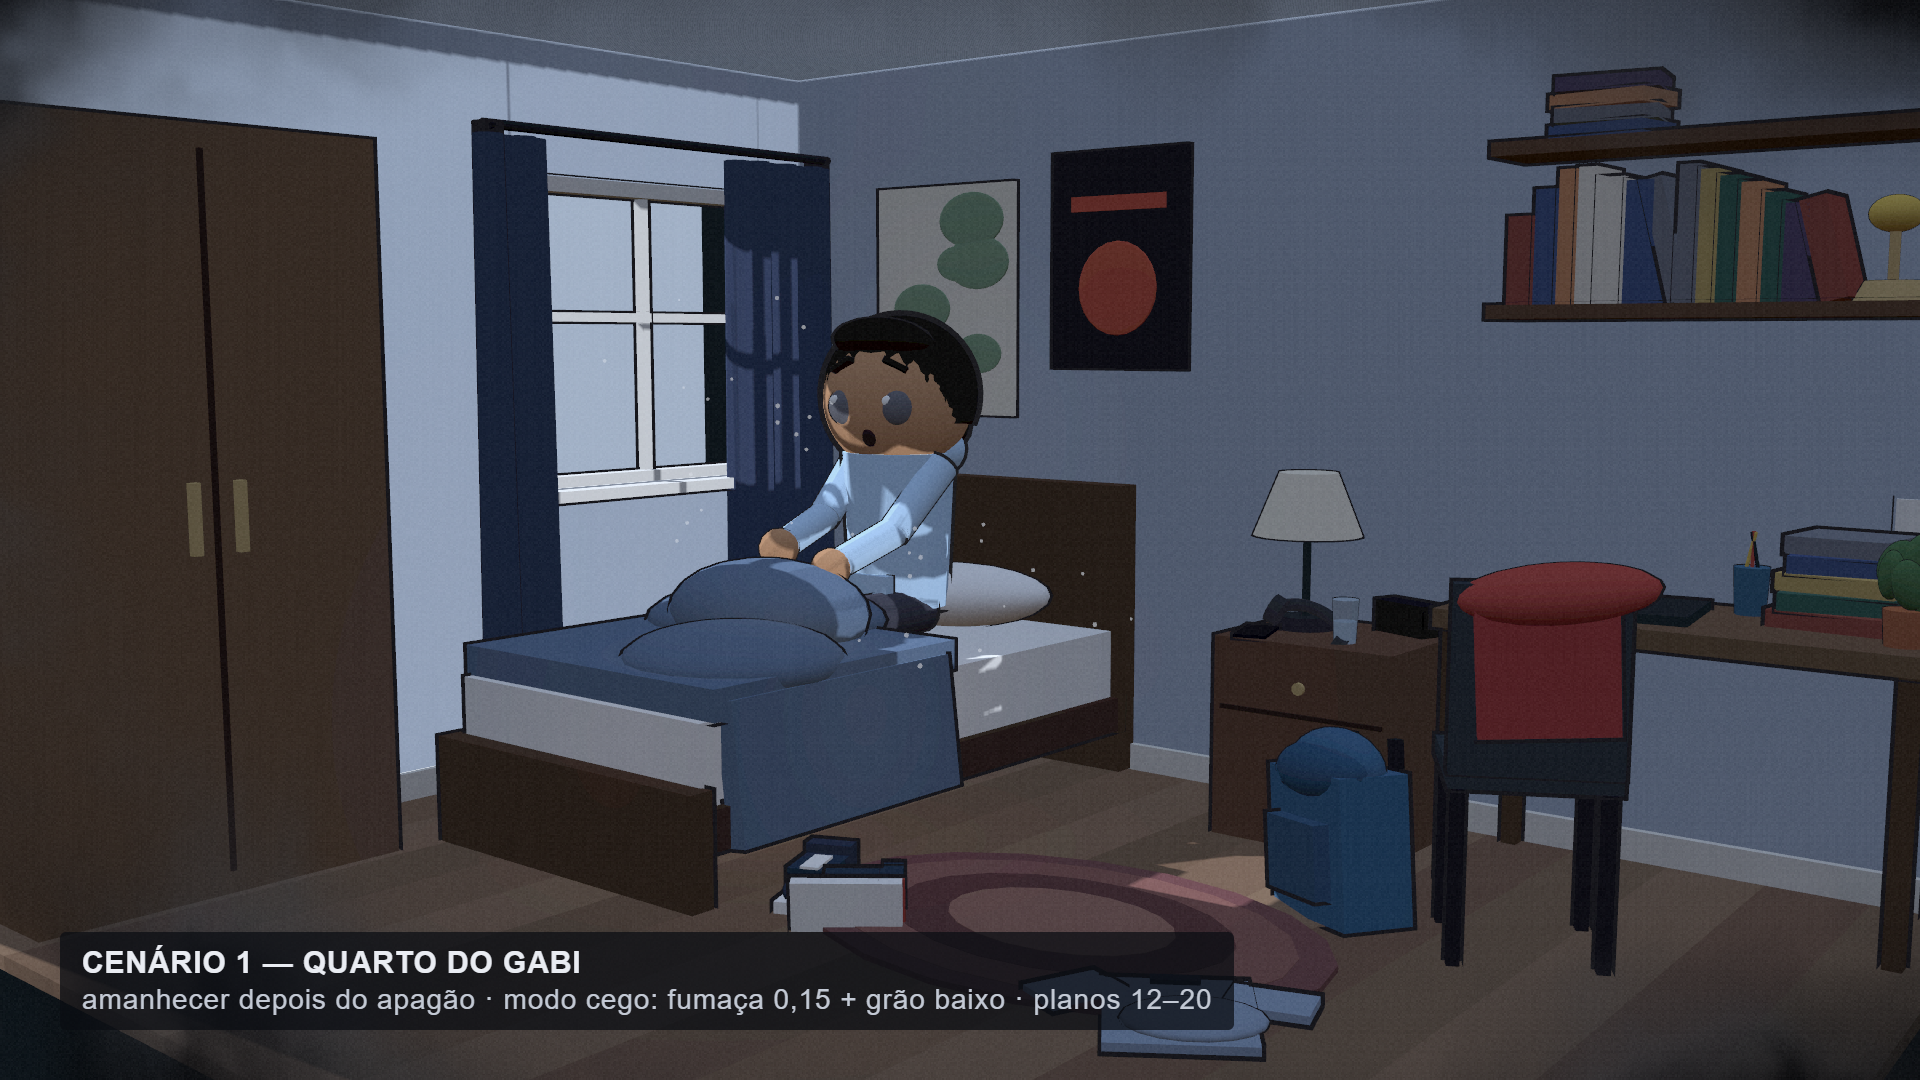
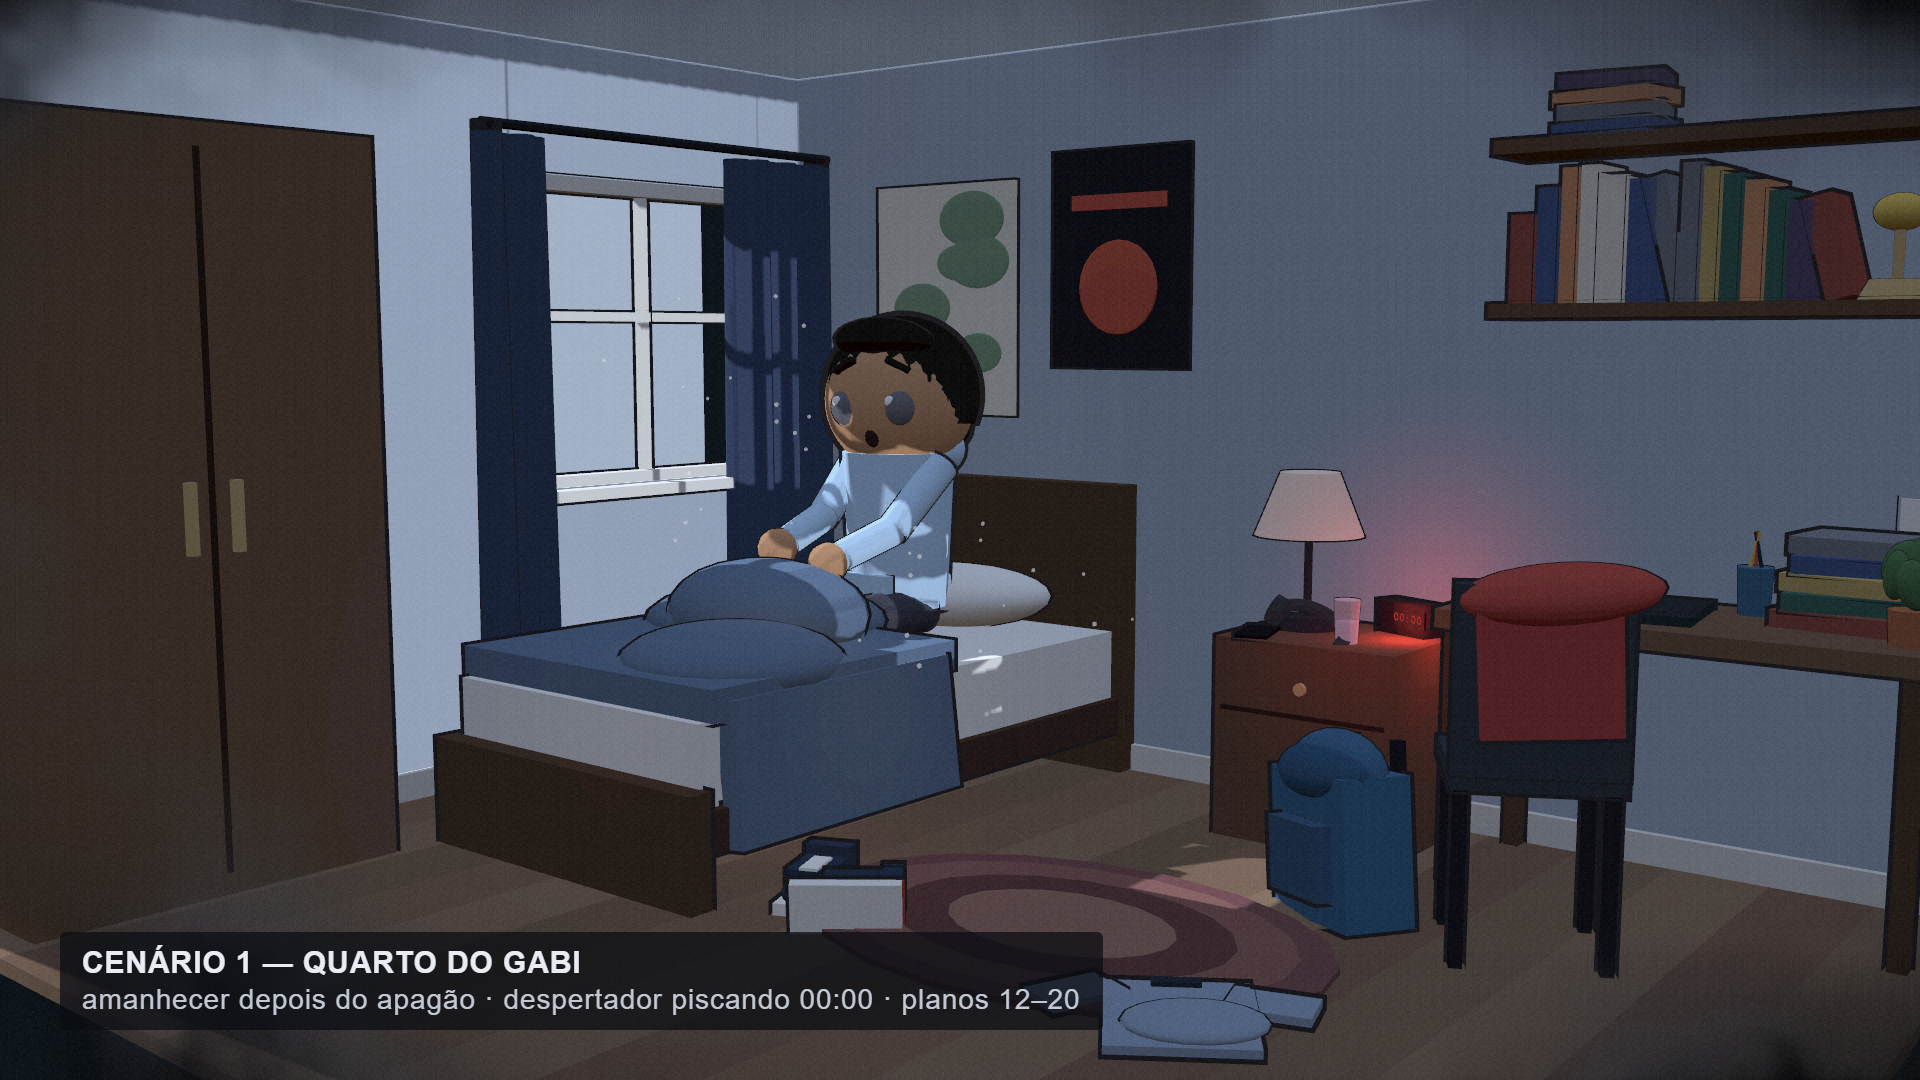
Quarto: despertador piscando 00:00 (a energia voltou)
Fecha a continuidade com a TV ligada na sala: o relógio zerou no apagão
e pisca 00:00 em vermelho, uma vez por segundo, com brilho leve.

diff --git a/producao/ep1/compositions/quarto.html b/producao/ep1/compositions/quarto.html
@@ -10,7 +10,7 @@
   </style>
   <div id="root" data-composition-id="quarto" data-width="1920" data-height="1080">
     <div id="q-stage" class="clip" data-start="0" data-duration="8" data-track-index="0"></div>
-    <div id="q-rotulo" class="clip" data-start="0" data-duration="8" data-track-index="1">CENÁRIO 1 — QUARTO DO GABI<small>amanhecer depois do apagão · modo cego: fumaça 0,15 + grão baixo · planos 12–20</small></div>
+    <div id="q-rotulo" class="clip" data-start="0" data-duration="8" data-track-index="1">CENÁRIO 1 — QUARTO DO GABI<small>amanhecer depois do apagão · despertador piscando 00:00 · planos 12–20</small></div>
   </div>
   <script>
     (function () {
@@ -123,7 +123,7 @@
       bolha(0.3, 0xd8d4cb, BX - 0.55, MT + 0.08, -1.25, [1.2, 0.3, 0.9]);                          // lençol solto
       bolha(0.42, EDR, BX - 0.05, MT + 0.22, -0.72, [1.35, 0.62, 0.95]);                            // edredom sobre os pés
 
-      // ---------- criado-mudo: abajur, copo, despertador apagado, fone ----------
+      // ---------- criado-mudo: abajur, copo, despertador piscando 00:00 (a energia voltou), fone ----------
       const NX = 0.75, NZ = -2.15;
       box(0.9, 0.95, 0.75, 0x6e4c37, NX, 0.475, NZ);
       box(0.82, 0.02, 0.02, 0x3a271c, NX, 0.62, NZ + 0.38, { contorno: false });
@@ -136,7 +136,14 @@
       const agua = new THREE.MeshToonMaterial({ color: 0x8fb4cf, gradientMap: grad, transparent: true, opacity: 0.6 });
       cil(0.052, 0.048, 0.1, 0, NX + 0.12, 1.0, NZ + 0.18, { mat: agua, contorno: false });
       box(0.3, 0.15, 0.12, 0x1f2126, NX + 0.25, 1.03, NZ - 0.2, { r: [0, -0.35, 0] });           // despertador
-      box(0.22, 0.08, 0.01, 0x0b0c0f, NX + 0.27, 1.04, NZ - 0.135, { r: [0, -0.35, 0], contorno: false }); // visor apagado
+      box(0.22, 0.08, 0.01, 0x0b0c0f, NX + 0.27, 1.04, NZ - 0.135, { r: [0, -0.35, 0], contorno: false }); // visor
+      // "00:00" piscando: o relógio zerou quando a energia caiu e voltou (continuidade com a TV da sala)
+      const cvR = document.createElement("canvas"); cvR.width = 256; cvR.height = 96; const gR = cvR.getContext("2d");
+      gR.fillStyle = "#ff3a2e"; gR.font = "bold 78px monospace"; gR.textAlign = "center"; gR.textBaseline = "middle"; gR.fillText("00:00", 128, 52);
+      const texR = new THREE.CanvasTexture(cvR); texR.colorSpace = THREE.SRGBColorSpace;
+      const visor = new THREE.Mesh(new THREE.PlaneGeometry(0.2, 0.075), new THREE.MeshBasicMaterial({ map: texR, transparent: true, toneMapped: false }));
+      visor.position.set(NX + 0.272, 1.04, NZ - 0.128); visor.rotation.y = -0.35; sala.add(visor);
+      const brilhoR = new THREE.PointLight(0xff3a2e, 0.35, 1.2, 2); brilhoR.position.set(NX + 0.3, 1.06, NZ - 0.05); sala.add(brilhoR);
       // fone: o objeto-assinatura, largado na mesinha
       const fone = new THREE.Group(); fone.position.set(NX - 0.05, 1.0, NZ + 0.22); fone.rotation.set(-1.25, 0.5, 0); sala.add(fone);
       const arco = new THREE.Mesh(new THREE.TorusGeometry(0.17, 0.03, 8, 20, Math.PI), M(0x24242a)); arco.castShadow = true; fone.add(arco);
@@ -278,6 +285,7 @@
           const b = p.userData.base;
           p.position.set(b[0] + Math.sin(t * 0.3 + b[3]) * 0.08, b[1] + Math.sin(t * 0.21 + b[3] * 1.7) * 0.06 + t * 0.01, b[2] + Math.cos(t * 0.25 + b[3]) * 0.07);
         }
+        const aceso = (t % 1) < 0.55; visor.visible = aceso; brilhoR.intensity = aceso ? 0.35 : 0;   // pisca 1x por segundo
         pos.render(scene, cam, t, LOOK);
       }
       const tl = gsap.timeline({ paused: true, onUpdate: render });
